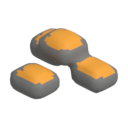
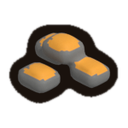
feat(items): draw an ink outline around item sprites (#64)
* feat(items): draw an ink outline around item sprites

Every item sprite gets a thick, slightly wobbly black outline (the kit's ink
colour), like the paper cut-outs of the UI. item_outline.py draws it after
each render in vox_items.py and is idempotent; the sprites, the UI icons and
the atlas are regenerated.

Claude-Session: https://claude.ai/code/session_01QGjZPqKKwqLnz8xJvoX4yW

* docs(readme): sync iso-core version in README

* feat(items): thicken the item sprite outline

Claude-Session: https://claude.ai/code/session_01QGjZPqKKwqLnz8xJvoX4yW

---------

Changed region(s): [[0.0625, 0.1875, 0.9375, 0.8125], [0.4062, 0.375, 0.5938, 0.4062]]

diff --git a/artifacts/vox/clay/item_outline.py b/artifacts/vox/clay/item_outline.py
@@ -1,0 +1,81 @@
+#!/usr/bin/env python3
+# item_outline.py — the ink outline of the items the world drops: a thick, slightly wobbly black
+# line around the sprite, like the cut-out outline of the paper-and-clay UI kit (`--ac-ink`,
+# `#ac-wobble` in lib/web/ui/armada-ui.css).
+#
+#   python3 item_outline.py [wood stone …]   outline those sprites of lib/assets/items/ (all when
+#                                            none is named)
+#
+# vox_items.py --render calls it after every render. It is idempotent: an outlined PNG carries a
+# text chunk and is skipped, so running it twice never thickens the line. The sprites are drawn
+# small in the middle of a 1024 x 853 canvas and shrunk about three times when the atlas is
+# built, so the line is OUTLINE_PX of the source: about three pixels in the atlas.
+import math
+import os
+import sys
+
+import numpy as np
+from PIL import Image, ImageFilter, PngImagePlugin
+
+INK = (0x1A, 0x12, 0x0D)  # --ac-ink
+OUTLINE_PX = 11.0 # the line's width in the 1024-wide source
+WOBBLE_PX = 2.2  # how far the line strays from a true offset curve
+WOBBLE_CELL = 26  # the size of one wobble, in source pixels
+MARKER = "armada-outline"
+
+
+def wobble(shape, seed):
+    """Smooth noise in [-1, 1] of one wobble per WOBBLE_CELL, the same for the same seed."""
+    rng = np.random.default_rng(seed)
+    rows, cols = shape[0] // WOBBLE_CELL + 3, shape[1] // WOBBLE_CELL + 3
+    coarse = Image.fromarray((rng.random((rows, cols)) * 255).astype(np.uint8))
+    big = coarse.resize((cols * WOBBLE_CELL, rows * WOBBLE_CELL), Image.BICUBIC)
+    return np.asarray(big, dtype=np.float32)[: shape[0], : shape[1]] / 127.5 - 1.0
+
+
+def outline(image, seed=7):
+    """`image` (RGBA) with the ink line drawn around its opaque part.
+
+    The shape is blurred and cut at the level a straight edge has at OUTLINE_PX from it; moving
+    the level with smooth noise makes the line wander WOBBLE_PX either way, like the kit's
+    `#ac-wobble` filter.
+    """
+    rgba = image.convert("RGBA")
+    solid = np.asarray(rgba.getchannel("A")) > 8
+    sigma = OUTLINE_PX * 0.55
+    soft = Image.fromarray((solid * 255).astype(np.uint8)).filter(ImageFilter.GaussianBlur(sigma))
+    field = np.asarray(soft, dtype=np.float32) / 255.0
+    # The blurred value of a straight edge at distance d outside the shape is erfc(d / s√2) / 2.
+    noise = wobble(field.shape, seed)
+    steps = np.linspace(-1.0, 1.0, 65)
+    levels = np.array([0.5 * math.erfc((OUTLINE_PX + WOBBLE_PX * n) / (sigma * math.sqrt(2))) for n in steps])
+    level = np.interp(noise, steps, levels)
+    inked = field > level
+    ink = Image.new("RGBA", rgba.size, INK + (0,))
+    edge = Image.fromarray((inked * 255).astype(np.uint8)).filter(ImageFilter.GaussianBlur(0.8))
+    ink.putalpha(edge)
+    return Image.alpha_composite(ink, rgba)
+
+
+def outline_file(path):
+    """Outlines the PNG at `path` in place; False when it already was."""
+    image = Image.open(path)
+    if image.info.get(MARKER):
+        return False
+    text = PngImagePlugin.PngInfo()
+    text.add_text(MARKER, "1")
+    outline(image).save(path, pnginfo=text, optimize=True)
+    return True
+
+
+def main(names):
+    here = os.path.dirname(os.path.abspath(__file__))
+    folder = os.path.join(here, "..", "..", "..", "lib", "assets", "items")
+    names = names or sorted(f[:-4] for f in os.listdir(folder) if f.endswith(".png"))
+    for name in names:
+        path = os.path.join(folder, name + ".png")
+        print(f"{name}: {'outlined' if outline_file(path) else 'already outlined'}")
+
+
+if __name__ == "__main__":
+    main(sys.argv[1:])

diff --git a/artifacts/vox/clay/vox_items.py b/artifacts/vox/clay/vox_items.py
@@ -6,6 +6,9 @@
 #   python3 vox_items.py --render        → …and each one rendered onto lib/assets/items/<id>.png
 #   python3 vox_items.py --render wood   only those
 #
+# Every rendered sprite gets the ink outline of item_outline.py, so it reads on the ground like
+# the paper cut-outs of the UI kit.
+#
 # An item lies loose on the ground in the middle of a 1x1x1 tile: a small heap, much lower and
 # narrower than an entity (about a third of the tile across), so it reads as something to pick
 # up and not as something that grows there. The game draws it bobbing over its own shadow, so
@@ -13,6 +16,7 @@
 # kind of thing it is, in the colour the chips of its harvest fly in (`color` in items.json).
 import sys
 
+from item_outline import main as outline_main
 from vox_models import put, run
 
 
@@ -75,3 +79,7 @@ MODELS = {
 
 if __name__ == "__main__":
     run(MODELS, sys.argv[1:])
+    if "--render" in sys.argv:
+        # The sprites leave Blender bare; the ink line is drawn over them (item_outline.py).
+        outline_main([a[len("item_"):] if a.startswith("item_") else a
+                      for a in sys.argv[1:] if a != "--render"])

diff --git a/lib/docs/ASSET-PIPELINE.md b/lib/docs/ASSET-PIPELINE.md
@@ -80,7 +80,7 @@ piedra y de construcción: muros y tejados sobre el mismo módulo de 28.
 
 `artifacts/vox/clay/vox_items.py` arma los items que caen al suelo al recolectar (madera, piedra,
 fibra, hongo, coco, hueso, cobre y ámbar): montones pequeños en el centro de un volumen 1x1x1,
-renderizados a `lib/assets/items/<id>.png`, que cada item de `content/json/items.json` nombra en `sprite`.
+renderizados a `lib/assets/items/<id>.png`, que cada item de `content/json/items.json` nombra en `sprite`. Cada sprite lleva un **contorno de tinta negra** (`#1a120d`, el `--ac-ink` del kit de UI) algo ondulado, de 11 px en el original (unos tres en el atlas), como el recorte de papel de la interfaz: lo dibuja `artifacts/vox/clay/item_outline.py`, que `vox_items.py --render` llama tras cada render. Es idempotente (el PNG ya contorneado lleva un chunk `armada-outline` y se salta). Tras cambiar un sprite de item: `python3 lib/scripts/build-ui-icons.py`, copiar `web/ui/items/*.png` a `content/ui/items/` y `lib/scripts/build-atlas.sh`.
 
 `artifacts/vox/clay/terrain_clay.py` genera todo el terreno de suelo: hierba
 (`grass/block.png` y `block_2..4.png`), tierra (`ground/block.png`, `block_2..3.png`), arena

diff --git a/.claude/skills/armada-voxel-assets/SKILL.md b/.claude/skills/armada-voxel-assets/SKILL.md
@@ -478,7 +478,7 @@ arma con piezas del kit como cualquier modelo, en un volumen 1x1x1, pero pequeñ
 tercio de la casilla), en el centro, sin suelo ni sombra. Uno por item de `items.json`, en el
 color de las astillas de su recolección (el `color` del item); el sprite va a
 `lib/assets/items/<id>.png` y el item lo nombra en `sprite`. El juego lo dibuja flotando sobre
-su propia sombra. `python3 artifacts/vox/clay/vox_items.py --render [item_<id> …]`. El cobre usa
+su propia sombra. `python3 artifacts/vox/clay/vox_items.py --render [item_<id> …]`; tras renderizar, `item_outline.py` le dibuja el **contorno de tinta negra** ondulado (estilo papel de la UI) y hay que regenerar los iconos de UI y el atlas (ver `lib/docs/ASSET-PIPELINE.md`). El cobre usa
 `COPPER` (`#a8532c`, variante `copper` de `ore`).
 
 ## 8. Antes de entregar

diff --git a/README.md b/README.md
@@ -26,7 +26,7 @@ El protagonista camina, corre, salta (doble salto con voltereta al aire), nada, 
 
 | Componente | Versión |
 |------------|---------|
-| **Juego (iso-core)** | **0.38.0** |
+| **Juego (iso-core)** | **0.38.1** |
 | Motor de dominio (iso) | 0.1.0 |
 | Gráficos / ventana | Macroquad 0.4.16 |
 | Lenguaje | Rust (edición 2024) |
